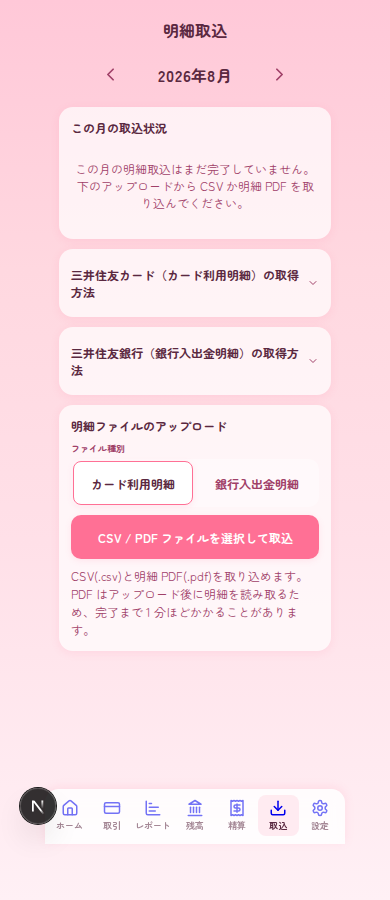
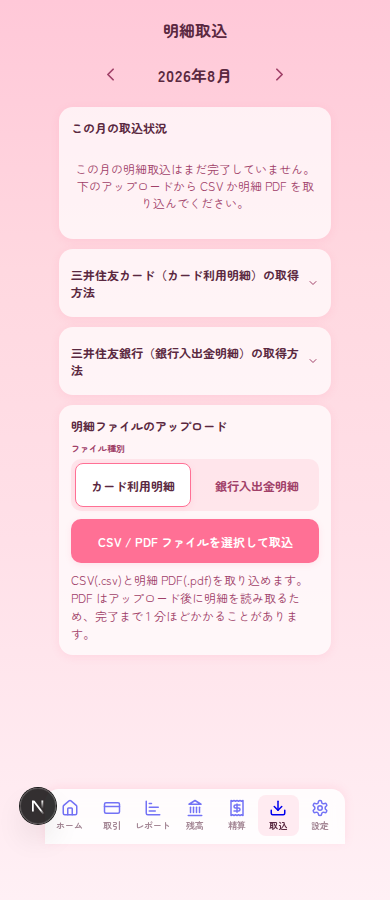
fix(web): 切り替え部品のレビュー指摘を反映(#569)
- 帯の色をトークン化し、カードの上でも沈んで見える値にする
- 隣り合うタップターゲットの間隔を --space-2 に広げる(usability §4-4)
- 選んだ種別がアップロードに載ることを画面のテストで固定する
- 共通部品のタップ下限の宣言ガードに切り替え部品を加える

Claude-Session: https://claude.ai/code/session_01PQRJbzNQAVpcV8tqK51dV8

Changed region(s): [[0.1846, 0.4978, 0.8308, 0.7467]]

diff --git a/packages/web/src/test/tap-target.test.ts b/packages/web/src/test/tap-target.test.ts
@@ -20,10 +20,19 @@ import { SRC_DIR, collectSources, isModuleCss, type Source } from './sources'
  * 3. 下限に相当する大きさを px の直値で書き起こしていない
  */
 
-/** 下限を宣言していなければならない共通の操作部品(`components/ui/common.module.css`) */
-const COMMON_CONTROLS = ['.button', '.buttonGhost', '.buttonDanger', '.select', '.input'] as const
-
 const COMMON_CSS = join('components', 'ui', 'common.module.css')
+
+/**
+ * 下限を宣言していなければならない共通の操作部品。
+ *
+ * ボタン・選択欄・入力欄(`common.module.css`)に加え、独自の受け皿を持つ共通部品も対象にする。
+ * 2 択の切り替え(`SegmentedControl`)は透明なラジオを `.optionLabel` の大きさに重ねる作りなので、
+ * 下限を宣言しているのは見た目を担う `.optionLabel` の側になる。
+ */
+const COMMON_CONTROLS: readonly { css: string; selectors: readonly string[] }[] = [
+  { css: COMMON_CSS, selectors: ['.button', '.buttonGhost', '.buttonDanger', '.select', '.input'] },
+  { css: join('components', 'ui', 'SegmentedControl.module.css'), selectors: ['.optionLabel'] },
+]
 
 const TAP_TARGET_MIN = 'var(--tap-target-min)'
 
@@ -87,7 +96,11 @@ describe('タップターゲットの下限', () => {
   const common = stylesheets.find(({ path }) => path === COMMON_CSS)?.content ?? ''
 
   it('共通の操作部品が下限をトークンで宣言している', () => {
-    expect(findControlsWithoutMin(common, COMMON_CONTROLS)).toEqual([])
+    const offenders = COMMON_CONTROLS.flatMap(({ css, selectors }) => {
+      const content = stylesheets.find(({ path }) => path === css)?.content ?? ''
+      return findControlsWithoutMin(content, selectors).map(selector => `${css}:${selector}`)
+    })
+    expect(offenders).toEqual([])
   })
 
   it('下限の値が globals.css の 1 か所に定義されている', () => {

diff --git a/packages/web/src/app/imports/__tests__/page.test.tsx b/packages/web/src/app/imports/__tests__/page.test.tsx
@@ -4,6 +4,7 @@
  * 「選んだ形式で実際に送り先が変わるか」までは担保できないため。
  */
 import { fireEvent, render, screen, waitFor } from '@testing-library/react'
+import userEvent from '@testing-library/user-event'
 import { QueryClient, QueryClientProvider } from '@tanstack/react-query'
 import { beforeEach, describe, expect, it, vi } from 'vitest'
 import ImportsPage from '../page'
@@ -91,6 +92,29 @@ describe('取込画面のアップロード', () => {
 
     await waitFor(() => expect(apiMutate).toHaveBeenCalledTimes(1))
     expect(apiMutate.mock.calls[0]?.[0]).toBe('/api/imports/csv')
+  })
+
+  it('種別を選ばなければカード利用明細として送る', async () => {
+    renderPage()
+    selectFile('statement.csv', 'text/csv')
+
+    await waitFor(() => expect(apiMutate).toHaveBeenCalledTimes(1))
+    const body = apiMutate.mock.calls[0]?.[1]?.body as FormData
+    expect(body.get('fileKind')).toBe('card_statement')
+  })
+
+  it('種別を銀行入出金明細に切り替えるとその種別で送る', async () => {
+    // 送信側が既定値を持つため、切り替えが送信に載らなくてもエラーにはならず、
+    // 銀行の明細がカードの明細として取り込まれる。ここで結線を固定する
+    const user = userEvent.setup()
+    renderPage()
+
+    await user.click(screen.getByRole('radio', { name: '銀行入出金明細' }))
+    selectFile('statement.csv', 'text/csv')
+
+    await waitFor(() => expect(apiMutate).toHaveBeenCalledTimes(1))
+    const body = apiMutate.mock.calls[0]?.[1]?.body as FormData
+    expect(body.get('fileKind')).toBe('bank_statement')
   })
 
   it('対応外のファイルは送らずにその場で断る', async () => {

diff --git a/packages/web/src/components/ui/__tests__/SegmentedControl.test.tsx b/packages/web/src/components/ui/__tests__/SegmentedControl.test.tsx
@@ -39,6 +39,37 @@ describe('SegmentedControl', () => {
     expect(onChange).toHaveBeenCalledExactlyOnceWith('bank')
   })
 
+  it('渡された選択が変わると選択の表示も移る', async () => {
+    const user = userEvent.setup()
+    const onChange = vi.fn()
+    const { rerender } = render(
+      <SegmentedControl label="ファイル種別" options={OPTIONS} value="card" onChange={onChange} />,
+    )
+
+    await user.click(screen.getByRole('radio', { name: '銀行入出金明細' }))
+    // 押した瞬間ではなく、呼び出し側が値を渡し直したときに選択が移る(制御された部品)
+    rerender(
+      <SegmentedControl label="ファイル種別" options={OPTIONS} value="bank" onChange={onChange} />,
+    )
+
+    expect(screen.getByRole('radio', { name: '銀行入出金明細' })).toBeChecked()
+    expect(screen.getByRole('radio', { name: 'カード利用明細' })).not.toBeChecked()
+  })
+
+  it('どの選択肢とも一致しない値ではどれも選ばれていない', () => {
+    // 取得待ちなどで候補外の値が渡ったとき、勝手に先頭を選んだことにしない
+    render(
+      <SegmentedControl
+        label="ファイル種別"
+        options={OPTIONS}
+        value="unknown"
+        onChange={vi.fn()}
+      />,
+    )
+
+    expect(screen.queryAllByRole('radio', { checked: true })).toHaveLength(0)
+  })
+
   it('選ばれている側を押しても切り替えを通知しない', async () => {
     const user = userEvent.setup()
     const onChange = renderControl('card')

diff --git a/packages/web/src/app/imports/page.tsx b/packages/web/src/app/imports/page.tsx
@@ -39,7 +39,12 @@ const FILE_KIND_LABELS: Record<StatementFileKind, string> = {
   bank_statement: '銀行入出金明細',
 }
 
-/* 種別の列挙はドメインを単一ソースにする(spec §10.1 ③「アップロード対象カード（2 種）」) */
+/*
+ * 取得手順ガイドの並びと、種別の切り替えの選択肢の並び。
+ *
+ * spec §10.1 ③「アップロード対象カード（2 種）」。種別の列挙はドメインを単一ソースにし、
+ * 画面側で 2 度書かない(2 か所に散ると、片方だけ増減したときに並びがずれる)
+ */
 const FILE_KIND_OPTIONS: readonly SegmentedControlOption<StatementFileKind>[] =
   StatementFileKindSchema.options.map(kind => ({ value: kind, label: FILE_KIND_LABELS[kind] }))
 
@@ -337,8 +342,7 @@ function ImportsPageContent() {
           ))}
       </section>
 
-      {/* spec §10.1 ③「アップロード対象カード（2 種）」。ファイル種別の列挙はドメインを単一ソースにする */}
-      {StatementFileKindSchema.options.map(kind => (
+      {FILE_KIND_OPTIONS.map(({ value: kind }) => (
         <StatementGuide key={kind} fileKind={kind} month={month} />
       ))}
 

diff --git a/packages/web/src/components/ui/SegmentedControl.module.css b/packages/web/src/components/ui/SegmentedControl.module.css
@@ -1,10 +1,11 @@
 /* 選択肢を載せる帯。カードより一段沈んだ面にして、選択中の白い面を浮かせる */
 .group {
   display: flex;
-  gap: var(--space-1);
+  /* 隣り合うタップターゲットの間隔は最低 --space-2(`docs/design/usability.md` §4-4) */
+  gap: var(--space-2);
   border-radius: var(--radius-md);
-  background: rgba(255, 255, 255, 0.4);
-  padding: var(--space-0_5);
+  background: var(--surface-track);
+  padding: var(--space-1);
 }
 
 .option {
@@ -56,11 +57,11 @@
 }
 
 .input:hover:not(:checked) + .optionLabel {
-  background: rgba(255, 255, 255, 0.6);
+  background: var(--surface-track-hover);
 }
 
 /* ラジオを透明にしているため、フォーカスの可視化は見た目を担う側へ移す(同 §8-1) */
 .input:focus-visible + .optionLabel {
   outline: 2px solid var(--accent);
-  outline-offset: 1px;
+  outline-offset: var(--space-0_5);
 }

diff --git a/packages/web/src/app/globals.css b/packages/web/src/app/globals.css
@@ -104,6 +104,15 @@ textarea {
   --deco-opacity: 0.2;
   --deco-highlight: rgba(255, 255, 255, 0.3);
 
+  /*
+   * 切り替え（SegmentedControl）の帯。選択中の白い面を浮かせる受け皿。
+   *
+   * 白の半透明ではカード（白 70%）の上で沈まないため、テーマ色を薄く敷く。
+   * ホバーは白を重ねて、選択中の白い面へ近づく途中の見え方にする。
+   */
+  --surface-track: rgba(255, 112, 149, 0.12);
+  --surface-track-hover: rgba(255, 255, 255, 0.55);
+
   /* Shadow composites */
   --shadow-sm: 0 2px 6px var(--shadow-color);
   --shadow-md: 0 2px 8px var(--shadow-color);
@@ -129,6 +138,7 @@ textarea {
   --shadow-color: #5090d820;
   --shadow-strong: #5090d850;
   --deco-opacity: 0.1;
+  --surface-track: rgba(80, 144, 216, 0.12);
 
   --cat-housing: #1a4080;
   --cat-food: #3878c8;

diff --git a/docs/design/usability.md b/docs/design/usability.md
@@ -202,7 +202,7 @@ LIFF スマホ縦画面・片手操作が前提(`DESIGN.md` §1)。
 | **6-6 空状態** | 共通部品 `EmptyState`(`packages/web/src/components/ui/EmptyState.tsx`)。インラインのテキストで、イラスト・空状態専用カードは採用しない。置き場所はその空状態が説明するセクションの器(`ui.card` かモーダル)の内側。`*.module.css` に独自の空状態スタイルを定義しない |
 | **6-7 月の切り替え** | 画面上部の月ナビゲーション。日付ピッカーで月を選ばせない |
 | **6-8 補足情報・手順の格納** | カード内の開閉トグル(見出しが `aria-expanded` + `aria-controls` を持つボタンを包む)。主操作の前に読まなくてよい補足はこれで畳む。モーダル・別ページ・常時展開は採用しない |
-| **6-9 2〜3 択の選択** | 共通部品 `SegmentedControl`(`packages/web/src/components/ui/SegmentedControl.tsx`)。中身はラジオで、選択状態が `checked` として伝わる(§4-7)。セレクト・独自のタブ風ボタンは採用しない。選択肢が 4 つ以上になる場合はセレクト(`ui.select`)に戻す。ダッシュボードの世帯/個人切り替え(`components/dashboard/ModeToggle.tsx`)は本部品より前からある独自実装で、タップ下限(§4-3)も満たしていない。#366 でそこを直すときに本部品へ寄せる |
+| **6-9 2〜3 択の選択** | 共通部品 `SegmentedControl`(`packages/web/src/components/ui/SegmentedControl.tsx`)。中身はラジオで、選択状態が `checked` として伝わる(§4-7)。セレクト・独自のタブ風ボタンは採用しない。選択肢が 4 つ以上になる場合はセレクト(`ui.select`)に戻す。本部品より前からある未追随の箇所が 2 つある。ダッシュボードの世帯/個人切り替え(`components/dashboard/ModeToggle.tsx`)は独自実装でタップ下限(§4-3)も満たしておらず、#366 でそこを直すときに本部品へ寄せる。口座追加の証券会社(3 択、`components/accounts/AccountAddModal.tsx`)はセレクトのままで、次にその画面を触るときに本部品へ寄せる |
 
 ### 違反例
 

diff --git a/DESIGN.md b/DESIGN.md
@@ -124,5 +124,6 @@ JSX に絵文字（Unicode Emoji）を表示目的で埋め込まない。装飾
 - `react-icons` を `icons.ts` の barrel を経由せず直接 import しない
 - アイコンの大きさを画面ごとに決めない — `size` プロパティや `width` / `height` の直値ではなく、共通クラス（`.iconSm` / `.iconMd` / `.iconLg`）から選ぶ
 - 色だけでロールや状態を区別しない — 形状・テキストを併用する
+- 2〜3 択の切り替えを画面ごとに書き起こさない — 共通部品 `SegmentedControl`（`packages/web/src/components/ui/SegmentedControl.tsx`）を使う（見た目は「選択中を白い面 + アクセントの枠で浮かせる」に統一する）
 - 空状態（「〜がありません」）を画面ごとに書き起こさない — 共通部品 `EmptyState`（`packages/web/src/components/ui/EmptyState.tsx`）を使い、`*.module.css` に独自の空状態スタイルを定義しない
 - ローディング（「読み込み中...」）・エラー（「〜の取得に失敗しました」）を画面ごとに書き起こさない — 共通部品 `LoadingState`（`packages/web/src/components/ui/LoadingState.tsx`）・`ErrorState`（同 `ErrorState.tsx`）を使い、`*.module.css` に独自の `.loading` / `.error` を定義しない
